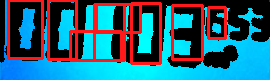
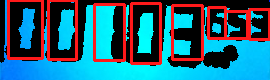
only 2 numbers not detected!

Changed region(s): [[0.237, 0.025, 0.5333, 0.75], [0.8296, 0.1, 1.0, 0.525], [0.237, 0.725, 0.3556, 0.775]]

diff --git a/imgProcessing/general_processingData/test44.py b/imgProcessing/general_processingData/test44.py
@@ -147,36 +147,48 @@ cnts = imutils.grab_contours(contours)
 bigCnts = []
 digitCnts = []
 ones_foundBig = []
+tmpIMG = deepcopy(cropped2)
+
 # loop over the digit area candidates
 for c in cnts:
 	# compute the bounding box of the contour
 	(x, y, w, h) = cv2.boundingRect(c)
-	# if the contour is sufficiently large, it must be a digit
-	if w >= 15 and (h >= 30):
-		if w*h>500 and w*h<550 and w<50:
-			digitCnts.append(c)
+	tmpIMG = cv2.rectangle(tmpIMG,(x,y),(x+w,y+h),(255,255,255),1)
+	tmpIMG = cv2.putText(tmpIMG, str(w*h), (x, y), cv2.FONT_HERSHEY_SIMPLEX, 0.4, (0,0,250), 1, cv2.LINE_AA, False)
+cv2.imwrite("9a.png", tmpIMG) # -> bounding rects found!
+
+# loop over the digit area candidates
+for c in cnts:
+	# compute the bounding box of the contour
+	(x, y, w, h) = cv2.boundingRect(c)
+	if w*h>400:
+		if w*h<600 and w<20:
+			digitCnts.append(c) # small digits on the right
+			continue
+		elif w*h>1500:
+			bigCnts.append(c)
 			continue
 		else:
-			if w*h>1550: # removing inner rectangles!
-				bigCnts.append(c)
-				continue
-	elif h>25 and w<15 and w>5 and h<40: # detect 1s
-		ones_foundBig.append(c)
-
-digitCntsSmall = imutils.contours.sort_contours(digitCnts, method="left-to-right")[0]
-digitCntsBig = imutils.contours.sort_contours(bigCnts, method="left-to-right")[0]
-digitOnesBig = imutils.contours.sort_contours(ones_foundBig, method="left-to-right")[0]
-if (len(digitOnesBig) % 2) != 0:
-	digitOnesBig = digitOnesBig[:-1]
-
-# merge ones contours:
-digitCntsOnesBig = []
-for i in range(len(digitOnesBig)-1):
-	digitCntsOnesBig.append(vstack([digitOnesBig[i], digitOnesBig[i+1]]))
+			continue
+	else:
+		if (h>25 and w<15 and w>5 and h<40 and w*h<250): # detect 1s
+			ones_foundBig.append(c)
 
 allContours = []
-for i in digitCntsOnesBig:
-	allContours.append(i)
+digitCntsSmall = imutils.contours.sort_contours(digitCnts, method="left-to-right")[0]
+digitCntsBig = imutils.contours.sort_contours(bigCnts, method="left-to-right")[0]
+if len(ones_foundBig)>0:
+	digitOnesBig = imutils.contours.sort_contours(ones_foundBig, method="left-to-right")[0]
+	if (len(digitOnesBig) % 2) != 0:
+		digitOnesBig = digitOnesBig[:-1]
+
+	# merge ones contours:
+	digitCntsOnesBig = []
+	for i in range(len(digitOnesBig)-1):
+		digitCntsOnesBig.append(vstack([digitOnesBig[i], digitOnesBig[i+1]]))
+
+	for i in digitCntsOnesBig:
+		allContours.append(i)
 for i in digitCntsSmall:
 	allContours.append(i)
 for i in digitCntsBig:
@@ -210,10 +222,10 @@ ret, thresh = cv2.threshold(gray4, 0, 255,	cv2.THRESH_BINARY_INV)
 cv2.imwrite("11.png", thresh) # -> bounding rects found!
 cv2.imwrite("12.png", cropped2) # -> bounding rects found!
 
-for r in rects:
-	getNumberOfRectangle(r, thresh, cropped2)
+# for r in rects:
+# 	getNumberOfRectangle(r, thresh, cropped2)
 
-#getNumberOfRectangle(rects[6], thresh, cropped2)
+getNumberOfRectangle(rects[4], thresh, cropped2)
 # # # import pytesseract
 # # # from PIL import Image
 # # # img = Image.open('/home/markus/Desktop/4.png')
